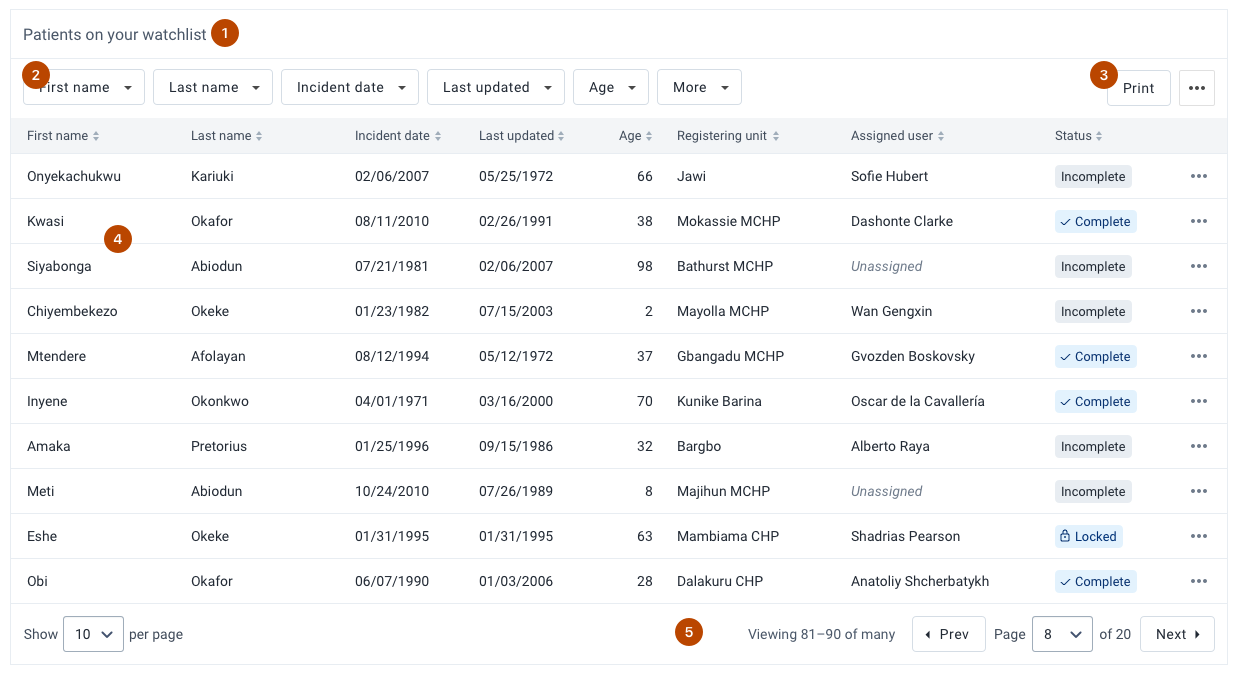
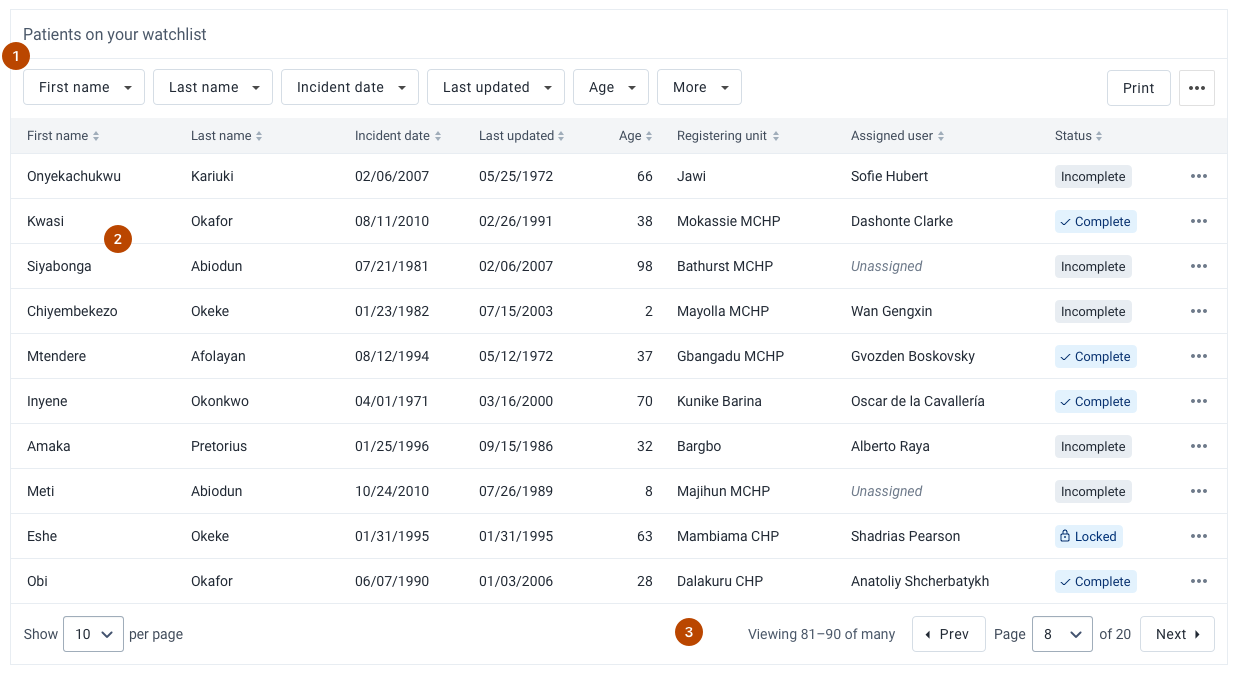
fix: update data-table (#22)
- adjust composition
- inline editing guidelines
- checkbox styles
- sorting controls
- inline filtering

diff --git a/organisms/data-table.md b/organisms/data-table.md
@@ -41,29 +41,17 @@ There are several different types of functionality and options available in the 
 
 A data table is made up of multiple elements, some of which are optional:
 
-1. **Title, optional**
-2. **Filters, optional**
-3. **Table actions, optional**
-4. **Data rows and header, required**
-5. **Pagination, required**
+1. **Toolbar, optional**
+3. **Data rows and header, required**
+5. **Footer, optional**
 
 ---
 
 ## Options
 
-### Table title
-
-![](../images/datatable-title.png)
-
-##### When to use a table title?
-
-A title provides context to a table that might appear in a complex interface. Titles are most useful if there are multiple tables on one page. Titles are not necessary if the table comes directly after a header or other title. Titles should be short and informative. Use a title that will make sense even if the data displayed changes drastically.
-
----
-
 ### Search
 
-![](../images/datatable-search.png)
+![](../images/data-table/search.png)
 
 ##### What is search?
 
@@ -83,81 +71,101 @@ Include search whenever a user might need to find a specific data record in the 
 
 ### Filtering
 
-![](../images/datatable-filter.png)
-
-![](../images/datatable-filter-display.png)
-
-##### What are filters?
-
-Filter controls allow a user to view a precise, focused set of data. The type of filter depends on the data type. Text can be filtered with text, numbers can be filtered by min/max and so on.
-
-##### How are filters used?
-
-The available filters must be defined, none will be provided by default. Clicking a filter button opens a popover with input controls. An actively filtered column is highlighted with an active button and text indicating the applied filter. Never filter data in a table without informing the user, the user must know they are viewing a filtered set of data.
-
-##### When to use filters?
-
-Include filters in a data table when a user needs to find specific data in large data sets. Filtering is a very effective way of finding the right data. Enabling filtering on a data table means that a single data table can fulfill several different functions for varying users and use cases. Only provide filters that are useful to the user, as filter buttons add visual noise and potential confusion to a data table.
+Filters allow a user to view a precise, focused set of data. Filtering is a very effective way of finding the right data. Enabling filtering on a data table means that a single data table can fulfill several different functions for varying users and use cases.
 
 Filtering works best when a user wants to return multiple results that fit some criteria. If a user is looking for a single result, especially where they know a name/title/attribute, then provide search functionality outside of the table.
+
+Never filter data in a table without informing the user, the user must know they are viewing a filtered set of data.
+
+There are two ways to filter data in a data table: [standalone](#filtering-standalone) or [inline](#filtering-inline).
+
+### Filtering: Standalone
+
+![](../images/data-table/standalone-filter.png)
+
+##### What are standalone filters?
+
+Standalone filters are buttons that can be used to filter on a column in a data table.
+
+##### How are standalone filters used?
+
+Standalone filter buttons should be displayed inside the table toolbar area. The available filters must be defined, none will be provided by default. Clicking a filter button opens a popover with input controls. An actively filtered column is highlighted with an active button and text indicating the applied filter.
+
+##### When to use standalone filters?
+
+Standalone filters are useful when filtering is one of the main actions available on the page. Standalone filters will draw the user's attention and are easier to use for users with lower tech literacy. Only provide standalone filters that are useful to the user, as filter buttons add visual noise and potential confusion to a data table.
+
+### Filtering: Inline
+
+![](../images/data-table/inline-filter.png)
+
+##### What are inline filters?
+
+Inline filter controls are a compact way to filter data in the data table.
+
+##### How are inline filters used?
+The filter input for a column is displayed by clicking the filter icon in the column header. Multiple columns can be filtered at the same time.
+
+##### When to use inline filters?
+Use inline filters in data-heavy, compact tables where standalone filters would take too much space. Inline filters are useful when filtering is not one of the main actions on a page, but is a tool that will be used occasionally.
 
 ---
 
 ### Table actions
 
-![](../images/datatable-actions.png)
+![](../images/data-table/table-actions.png)
 
 ##### What are table actions?
 
-Actions that can be applied to the entire data table, or the currently selected data rows.
+Actions that can be applied to the entire data table or the currently selected data rows.
 
 ##### How are table actions used?
 
-Actions are presented as buttons in a 'table actions' area. Primary actions can be displayed as individual buttons, 'Export' and 'Print' in the example above. Other secondary options are accessed via the 'three-dot' overflow menu.
+Table actions are presented as buttons in the toolbar area. Important, often used table actions can be displayed as individual buttons: 'Export' and 'Print' in the example above. Other secondary options can be accessed via the 'three-dot' overflow menu.
 
 ##### When to use table actions?
 
-Only include actions here that apply directly to the data in the data table, not to the rest of the interface.
+Only include actions in the toolbar that apply directly to the data in the data table, not to the rest of the interface.
 
-Primary actions will be very visible to the user, so only include actions here that will apply to most use cases. Edge case or rarely used options should be accessed through the overflow menu to avoid overwhelming users with options.
+Table action buttons will be very visible to the user, so only include actions here that will apply to most use cases. Edge case or rarely used options should be accessed through the overflow menu to avoid overwhelming users with options.
 
 ---
 
 ### Row actions
 
-![](../images/datatable-row-actions.png)
+![](../images/data-table/row-actions.png)
 
 ##### What are row actions?
 
-Actions that can be applied to a single row in a data table.
+Actions that apply to a single row in a data table.
 
 ##### How are row actions used?
 
-Row actions are always displayed as the last column in a row. Main row actions are displayed as text links in the row. A maximum of 2 main row actions can be shown in a table row. Other actions are available through the 'three-dots' overflow menu.
+Row actions are usually displayed as the last column in a row. Main row actions can be displayed as text links in the row. A maximum of 2 main row actions can be shown in a table row. Other actions are made available through the 'three-dots' overflow menu.
 
 A click action can be also be set for all rows that will be activated by clicking on that row. For example, clicking on a row may activate 'View' action and navigate to that row on a new page.
 
 ##### When to use row actions?
 
-Primary row actions add a lot of potential action points to a page, so use them with care. Only use primary actions where that action needs to be available for all rows at all times. Secondary actions available through the overflow menu can be included anytime it is useful for users to take action when viewing the data table.
+ Row actions add a lot of potential action points to a page, so use them with care. Only use text link row actions where that action needs to be available for all rows at all times. Secondary, less important, actions available through the overflow menu can be included anytime it is useful for users to take action when viewing the data table.
 
 ---
 
 ### Sorting/Ordering
 
-![](../images/datatable-sorting.png)
+![](../images/data-table/sorting.png)
 
 ##### What is sorting/ordering?
 
-Sorting/ordering allows the user to reorder the rows in a data table based on a single column. The column can be sorted ascending or descending.
+Sorting/ordering allows the user to reorder the rows in a data table based on column contents. The column can be sorted ascending or descending.
 
 ##### How is sorting/ordering used?
 
-Column headings can be clicked to enable sorting by that column. The direction of sorting is indicated by a highlighted icon. Clicking a column heading multiple times toggles ascending/descending order.
+Column headings can be clicked to enable sorting by that column. The direction of sorting is indicated by a highlighted icon. Clicking a column heading multiple times toggles ascending/descending/off.
 
 ##### When to use sorting/ordering?
 
-Sorting is enabled by default. Only disable sorting if the order of the displayed data is intentional/meaningful and therefore should not be changed by a user.
+Sorting is often useful and should be enabled for most data tables. Only disable sorting if the order of the displayed data is intentional or meaningful and therefore should not be changed by a user.
 
 ---
 
@@ -167,7 +175,7 @@ Sorting is enabled by default. Only disable sorting if the order of the displaye
 
 ##### What is a fixed header?
 
-A table header that remains in view when vertically scrolling a data table. If a table includes a title, filters or main actions these will also be fixed.
+A table header that remains in view when vertically scrolling a data table. If displayed, a table toolbar will also be fixed.
 
 ##### When to use a fixed header?
 
@@ -191,21 +199,38 @@ Use fixed columns where space is limited and a user may need to scroll the table
 
 ### Inline editing
 
-![](../images/datatable-inline-edit.png)
-
 ##### What is inline editing?
 
-If enabled, cells in table rows can be edited directly in the data table without navigating to another page.
+Cells or rows can be edited directly in the data table without navigating to another page.
 
 ##### How is inline editing used?
 
-If a cell is editable it will display an edit icon inside the cell, after the value.
+###### Cells
+
+![](../images/data-table/cell-edit.png)
+
+If a single cell is editable it will display an edit icon inside the cell, after the value.
 
 Clicking an editable cell opens a popover where editing controls can be presented. No default controls are present here, so use the relevant inputs for the type of data being editing. Always make it clear to the user how they save their data: is their data saved automatically or do they have to click a 'Save' button. Providing a 'Save' button is a straightforward and easily understandable pattern to follow.
 
+Clicking an editable cell triggers the edit process. The interface for editing needs to match the use case:
+
+- editing a single, focused value: display a popover with inputs and buttons,
+  ![](../images/data-table/cell-edit-active.png)
+- editing a complex value: display a modal with all the required inputs.
+
+###### Rows
+
+![](../images/data-table/row-edit.png)
+
+Edit control for an entire row should be displayed as a row action. Like cells, the interface for editing should match the use case:
+- editing simple values in a row: each cell in the row can display an input control with save and cancel buttons in the last cell. When a row is in edit mode the other actions in the table should be disabled,
+![](../images/data-table/row-edit-active.png)
+- editing complex values in a row: open a modal view that displays all the relevant controls.
+
 ##### When to use inline editing?
 
-Inline editing should be used with restraint. It can be useful for power users, they can quickly edit values without leaving the data table. However, it can be overwhelming for some users and can be particularly difficult when working with large data sets. Consider network conditions, an unreliable network can make inline editing less clear, as the distinction between saved/failed is not always clear to a user.
+Inline editing should be used with restraint. It can be useful for power users, they can quickly edit values without leaving the data table. However, it can be overwhelming for some users and can be particularly difficult when working with large data sets. Consider network conditions, an unreliable network can make inline editing difficult as the distinction between saved, synced or failed is not always clear to a user.
 
 ---
 
@@ -219,7 +244,7 @@ Expandable rows are table rows that can be expanded inline, without leaving the 
 
 ##### How are expandable rows used?
 
-The user can expand a row by clicking on the arrow in the left-most area of the row. Alternatively, the default click action on a row could be overridden to expand the row.
+The user can expand a row by clicking on the arrow in the left-most area of the row. Alternatively, the default click action could expand the row.
 
 ##### When to use expandable rows?
 
@@ -229,7 +254,7 @@ Expandable rows are useful when there is a lot of useful information to display,
 
 ### Selectable rows
 
-![](../images/datatable-selectable-rows.png)
+![](../images/data-table/selectable.png)
 
 ##### What are selectable rows?
 
@@ -261,7 +286,7 @@ Row reordering allows a user to drag and drop data table rows to change their or
 
 ##### How is row reordering used?
 
-When row reordering is enabled the primary action (e.g. clicking the row) will always activate the drag and drop functionality. If the row requires more actions they must be included as Main Actions or in the overflow menu.
+When row reordering is enabled the primary action (e.g. clicking the row) will always activate the drag and drop functionality. If the row requires more actions they must be included as inline [row actions](#row-actions).
 
 ##### When to use row reordering?
 
